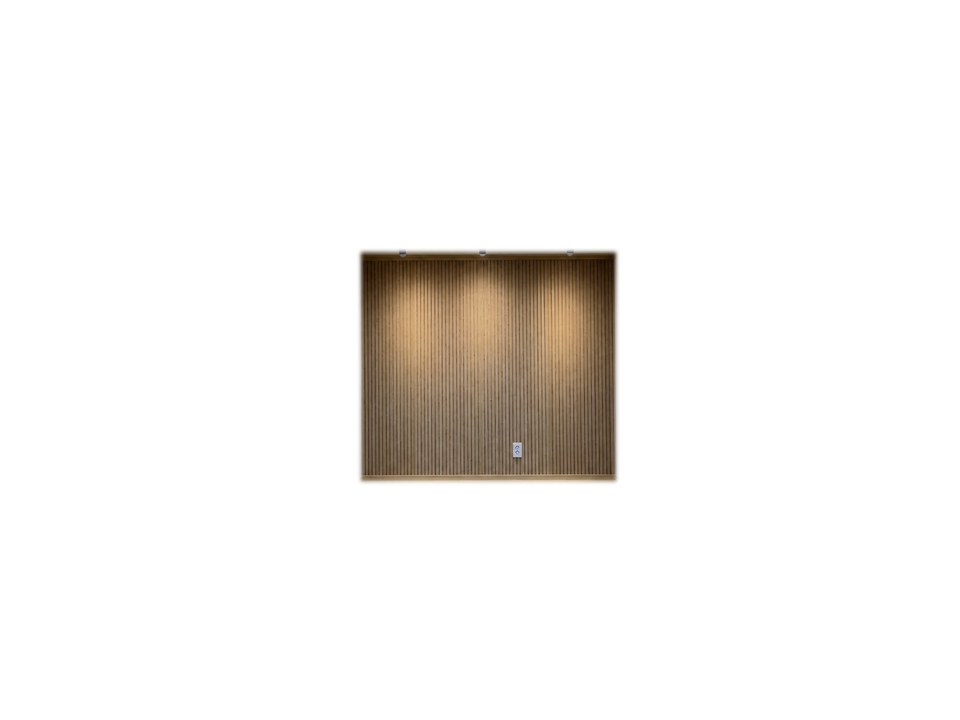
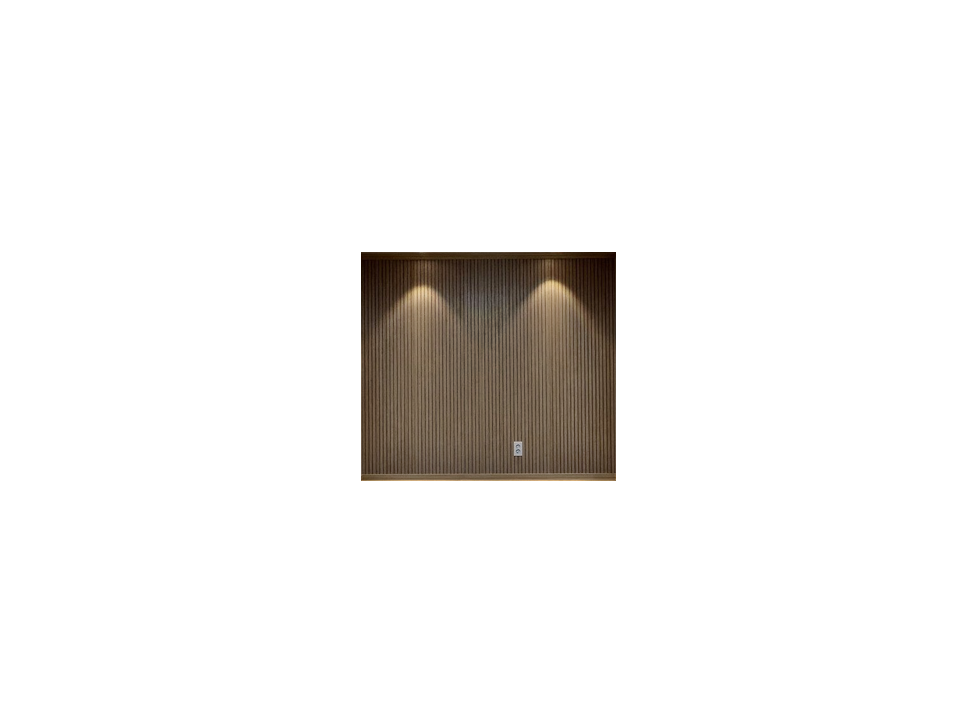
레일등 천장 이음새 0%화 및 타공벽 산 모양 불빛 완전 제거

Changed region(s): [[0.375, 0.3361, 0.6562, 0.6722]]

diff --git a/configurator.html b/configurator.html
@@ -120,7 +120,7 @@
 
 <div class="toast" id="toast" role="status" aria-live="polite"></div>
 
-<script type="module" src="assets/configurator.js?v=20261122p"></script>
+<script type="module" src="assets/configurator.js?v=20261122q"></script>
 <noscript>
   <style>.panel-body{display:none}.panel-foot{display:none}</style>
   <p style="padding:20px">3D 견적 시뮬레이터는 자바스크립트가 필요합니다. 전화 상담 <a href="tel:01030015906">010-3001-5906</a> 으로 문의해 주세요.</p>

diff --git a/assets/configurator.js b/assets/configurator.js
@@ -2352,8 +2352,8 @@ function preloadPhotoWins(){
     '800x800': 'assets/win-800.png',
     '1200x800': 'assets/win-1200.png',
     'double1200': 'assets/win-double.png',
-    'rail_ceiling': 'assets/ceiling-rail.png?v=3',
-    'slat_nocob': 'assets/slat-nocob.png?v=1'
+    'rail_ceiling': 'assets/ceiling-rail.png?v=4',
+    'slat_nocob': 'assets/slat-nocob.png?v=2'
   };
   Object.keys(map).forEach(k => {
     const im = new Image();
